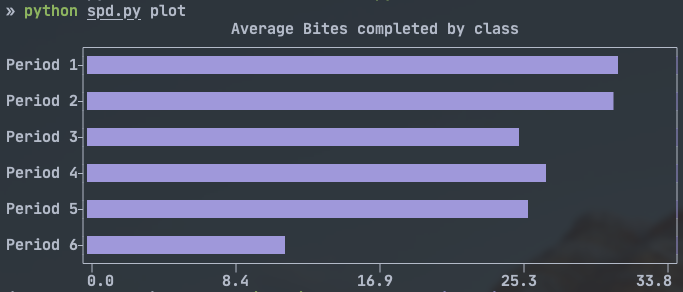
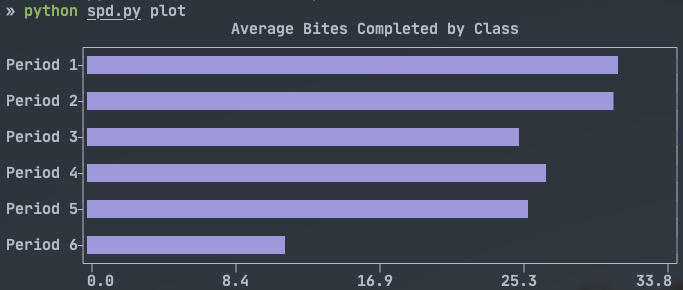
Fixed capitlization on chart titles

diff --git a/spd.py b/spd.py
@@ -75,7 +75,7 @@ def plot(
     plt.bar(data.class_, data.total_completed, orientation="h", width=0.3, marker="fhd")
     plt.theme("pro")
     plt.plot_size(75, (2 * len(data.class_) - 1) + 4)
-    plt.title("Average Bites completed by class")
+    plt.title("Average Bites Completed by Class")
     plt.xlim(0, max(data.total_completed) * 1.1)
     plt.show()
 
@@ -113,7 +113,7 @@ def stacked(
     )
     plt.ylim(0, max(data.total_completed) * 1.2)
     plt.theme("pro")
-    plt.title("Average Bites completed by class")
+    plt.title("Average Bites Completed by Class")
     plt.show()
 
 
